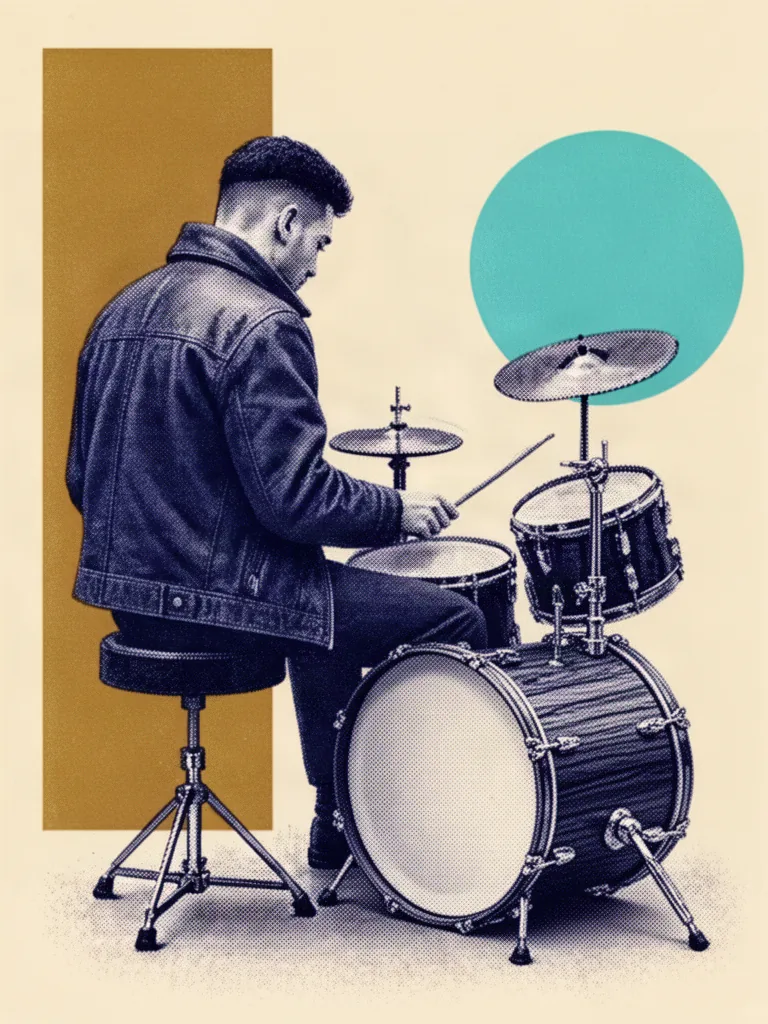
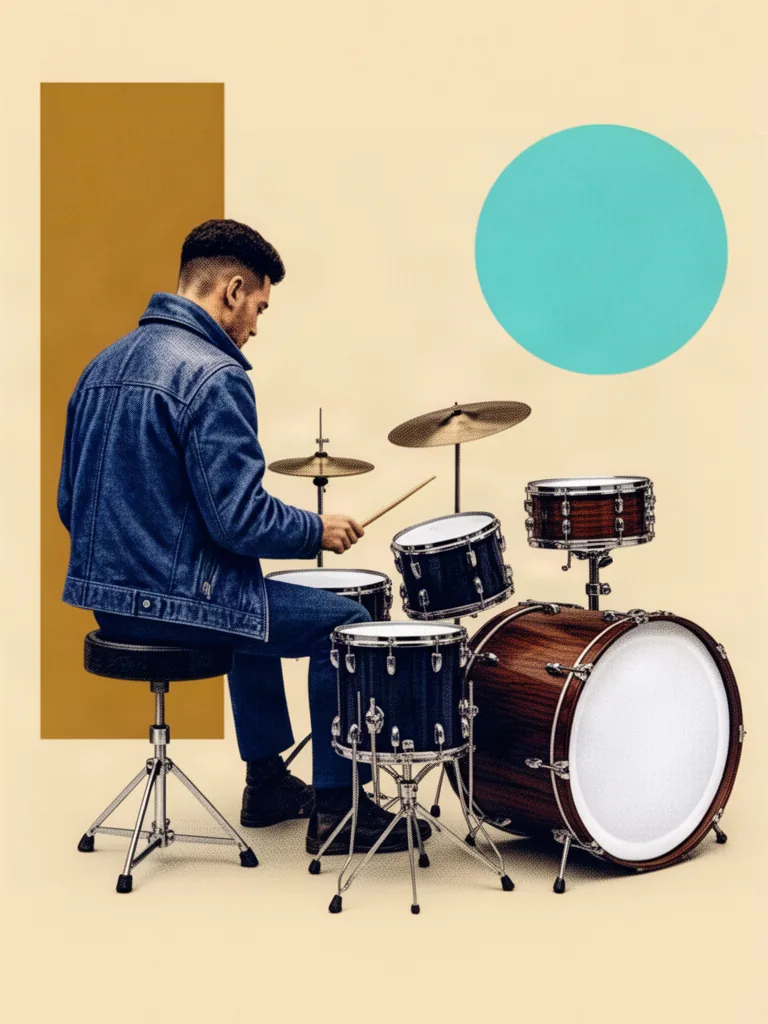
Publie le client de Charts.

diff --git a/prototypes/booster.html b/prototypes/booster.html
@@ -2169,7 +2169,7 @@ function renderCard(card, opts={}){
   const cls = `card r${tier.rank}${paper?" paper":""}${diamant?" diamant":""}${opts.zoomable===false?"":" zoomable"}`;
   const info = `${fam.label} · ${instrumentLabel(card)} · ${group}`;
   return `<div class="${cls}" tabindex="${opts.zoomable===false?"-1":"0"}" data-idx="${opts.idx ?? ""}">
-    <div class="art"><img src="../out/illustrations/webp/${esc(card.job)}.webp?v=8" alt="" loading="lazy" onerror="this.onerror=function(){this.onerror=null;var m=this.src.replace('_x.webp','_m.webp');if(m!==this.src)this.src=m;};var s=this.src,n=s.indexOf('_B_')>=0?s.replace('_B_','_A_'):s.replace('_A_','_B_');if(n!==s)this.src=n;else{this.onerror=null;var m=s.replace('_x.webp','_m.webp');if(m!==s)this.src=m;}"></div>
+    <div class="art"><img src="../out/illustrations/webp/${esc(card.job)}.webp?v=9" alt="" loading="lazy" onerror="this.onerror=function(){this.onerror=null;var m=this.src.replace('_x.webp','_m.webp');if(m!==this.src)this.src=m;};var s=this.src,n=s.indexOf('_B_')>=0?s.replace('_B_','_A_'):s.replace('_A_','_B_');if(n!==s)this.src=n;else{this.onerror=null;var m=s.replace('_x.webp','_m.webp');if(m!==s)this.src=m;}"></div>
     ${diamant ? `<div class="title"><div class="myth-name" style="font-size:${mythName}px">${esc(card.name)}</div></div>` : ""}
     <div class="band" style="${bandStyle}">
       <div class="accent" style="background:${fam.a1}"></div>
@@ -4112,7 +4112,7 @@ function preload(cards){
   return Promise.all(cards.map(c => new Promise(res => {
     const img = new Image();
     img.onload = img.onerror = res;
-    img.src = `../out/illustrations/webp/${c.job}.webp?v=8`;
+    img.src = `../out/illustrations/webp/${c.job}.webp?v=9`;
     if(img.complete) res();
   })));
 }

diff --git a/prototypes/cartes.html b/prototypes/cartes.html
@@ -303,7 +303,7 @@ function renderCard(card, opts={}){
   const mythName = n > 16 ? 22 : n > 13 ? 26 : n > 10 ? 30 : 34;
   return `<div class="${cls}" tabindex="${opts.zoomable===false?"-1":"0"}" data-name="${card.name}">
     <div class="art">
-      <img src="../out/illustrations/webp/${card.job}.webp?v=8" alt="" onerror="this.onerror=function(){this.onerror=null;var m=this.src.replace('_x.webp','_m.webp');if(m!==this.src)this.src=m;};var s=this.src,n=s.indexOf('_B_')>=0?s.replace('_B_','_A_'):s.replace('_A_','_B_');if(n!==s)this.src=n;else{this.onerror=null;var m=s.replace('_x.webp','_m.webp');if(m!==s)this.src=m;}">
+      <img src="../out/illustrations/webp/${card.job}.webp?v=9" alt="" onerror="this.onerror=function(){this.onerror=null;var m=this.src.replace('_x.webp','_m.webp');if(m!==this.src)this.src=m;};var s=this.src,n=s.indexOf('_B_')>=0?s.replace('_B_','_A_'):s.replace('_A_','_B_');if(n!==s)this.src=n;else{this.onerror=null;var m=s.replace('_x.webp','_m.webp');if(m!==s)this.src=m;}">
     </div>
     ${mythique ? `<div class="title"><div class="myth-name" style="font-size:${mythName}px">${card.name}</div></div>` : ""}
     <div class="band" style="${bandStyle}">

diff --git a/prototypes/fantasy-lineup.html b/prototypes/fantasy-lineup.html
@@ -1212,7 +1212,7 @@ function renderCard(card){
   const cls = `card r${tier.rank}${paper ? " paper" : ""}${diamant ? " diamant" : ""}`;
   const info = `${fam.label} · ${instrumentLabel(card)} · ${group}`;
   return `<div class="${cls}" data-id="${esc(card.id)}">
-    <div class="art"><img src="../out/illustrations/webp/${esc(card.job)}.webp?v=8" alt="" loading="lazy"></div>
+    <div class="art"><img src="../out/illustrations/webp/${esc(card.job)}.webp?v=9" alt="" loading="lazy"></div>
     ${diamant ? `<div class="title"><div class="myth-name" style="font-size:${mythName}px">${esc(card.name)}</div></div>` : ""}
     <div class="band" style="${bandStyle}">
       <div class="accent" style="background:${fam.a1}"></div>

diff --git a/prototypes/fantasy.html b/prototypes/fantasy.html
@@ -655,7 +655,7 @@ function renderCard(card){
   const cls = `card r${tier.rank}${paper ? " paper" : ""}${diamant ? " diamant" : ""}`;
   const info = `${fam.label} · ${instrumentLabel(card)} · ${group}`;
   return `<div class="${cls}" data-id="${esc(card.id)}">
-    <div class="art"><img src="../out/illustrations/webp/${esc(card.job)}.webp?v=8" alt="" loading="lazy"></div>
+    <div class="art"><img src="../out/illustrations/webp/${esc(card.job)}.webp?v=9" alt="" loading="lazy"></div>
     ${diamant ? `<div class="title"><div class="myth-name" style="font-size:${mythName}px">${esc(card.name)}</div></div>` : ""}
     <div class="band" style="${bandStyle}">
       <div class="accent" style="background:${fam.a1}"></div>

diff --git a/prototypes/classeur.html b/prototypes/classeur.html
@@ -1104,7 +1104,7 @@ function switchUser(nextId){
 
 const plateSrc = new Map();
 function plateUrl(job){
-  const url = `../out/illustrations/webp/${job}.webp?v=8`;
+  const url = `../out/illustrations/webp/${job}.webp?v=9`;
   return plateSrc.get(url) || url;
 }
 function imgFallback(el){
